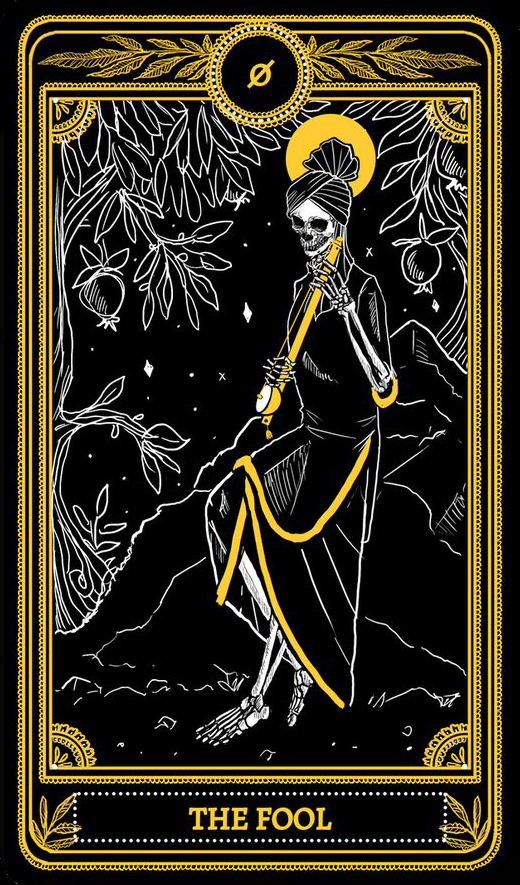
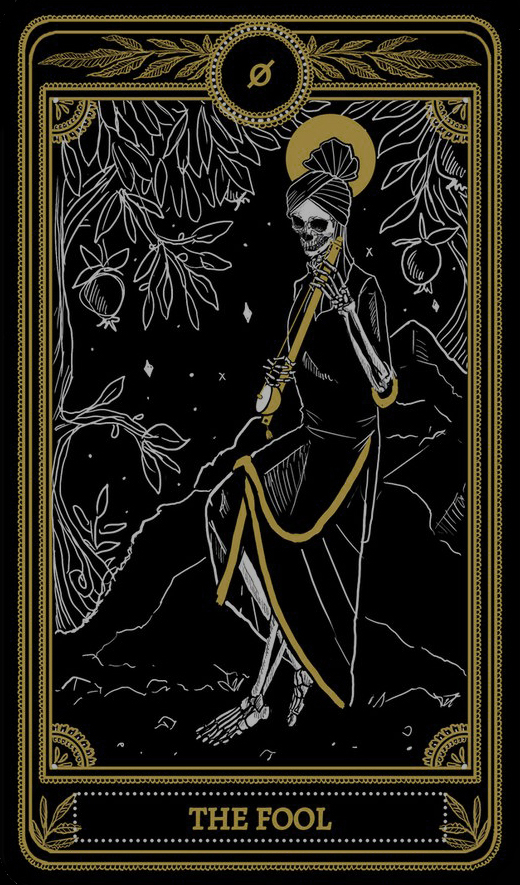
adjusted images to make them less bright

diff --git a/css/style.min.css b/css/style.min.css
@@ -1,2 +1,2 @@
-@-webkit-keyframes move-twink-back{from{background-position:0 0}to{background-position:-10000px 5000px}}@keyframes move-twink-back{from{background-position:0 0}to{background-position:-10000px 5000px}}@-webkit-keyframes fade{0%{opacity:1}100%{opacity:0}}@keyframes fade{0%{opacity:1}100%{opacity:0}}.stars,.twinkling{position:absolute;top:0;left:0;right:0;bottom:0;width:100%;height:100%;display:block}.stars{background:#000 url("../img/stars2.png") repeat top center;z-index:0}.twinkling{background:transparent url("../img/twinkling.png") repeat top center;z-index:1;-webkit-animation:move-twink-back 200s linear infinite;animation:move-twink-back 200s linear infinite}#memory{width:100vw;height:100vh;display:-webkit-box;display:-ms-flexbox;display:flex}.selected{color:#918053;text-shadow:2px 2px 5px #725e85}.cardContainer{margin:auto;-webkit-perspective:1000px;perspective:1000px;display:-webkit-box;display:-ms-flexbox;display:flex;-ms-flex-wrap:wrap;flex-wrap:wrap;width:1410px;height:885px;-webkit-box-pack:justify;-ms-flex-pack:justify;justify-content:space-between;z-index:5}.card{-webkit-transition:1.2s ease-in;transition:1.2s ease-in;-webkit-transform-style:preserve-3d;transform-style:preserve-3d;position:relative;width:calc(20% - 20px);height:50%;-webkit-transform:rotateY(0deg);transform:rotateY(0deg)}img{width:100%;max-height:auto;border-radius:10px;-webkit-box-shadow:0px 0px 10px #725e85;box-shadow:0px 0px 10px #725e85}.front,.back{-webkit-backface-visibility:hidden;backface-visibility:hidden;position:absolute}.front{z-index:2;-webkit-transform:rotateY(180deg);transform:rotateY(180deg)}.back{-webkit-transform:rotateY(0deg);transform:rotateY(0deg)}.flip{-webkit-transform:rotateY(180deg);transform:rotateY(180deg)}#cardFace{z-index:4;width:10vw;height:10vh;top:90%;-webkit-transform:translateY(-50%);transform:translateY(-50%);position:absolute;text-align:center;padding:1em}#score{z-index:4;width:10vw;height:10vh;position:absolute;text-align:center;padding:1em}.playGuide{position:absolute;width:100%;top:50%;z-index:6;-webkit-transform:translateY(-50%);transform:translateY(-50%)}.playGuide p{background-color:rgba(0,0,0,0.383);border-radius:10px;-webkit-box-shadow:0px 0px 10px #725e85;box-shadow:0px 0px 10px #725e85;padding:2em;line-height:2em;font-size:3rem;text-align:center}.fade{-webkit-animation:fade 1.5s linear forwards;animation:fade 1.5s linear forwards}*{margin:0}html{font-family:"Great Vibes", cursive;color:#b8b8b8}
+@-webkit-keyframes move-twink-back{from{background-position:0 0}to{background-position:-10000px 5000px}}@keyframes move-twink-back{from{background-position:0 0}to{background-position:-10000px 5000px}}@-webkit-keyframes fade{0%{opacity:1}100%{opacity:0}}@keyframes fade{0%{opacity:1}100%{opacity:0}}.stars,.twinkling{position:absolute;top:0;left:0;right:0;bottom:0;width:100%;height:100%;display:block}.stars{background:#000 url("../img/stars2.png") repeat top center;z-index:0}.twinkling{background:transparent url("../img/twinkling.png") repeat top center;z-index:1;-webkit-animation:move-twink-back 200s linear infinite;animation:move-twink-back 200s linear infinite}#memory{width:100vw;height:100vh;display:-webkit-box;display:-ms-flexbox;display:flex}.selected{color:#918053;text-shadow:2px 2px 5px #725e85}.cardContainer{margin:auto;-webkit-perspective:1000px;perspective:1000px;display:-webkit-box;display:-ms-flexbox;display:flex;-ms-flex-wrap:wrap;flex-wrap:wrap;width:1300px;height:885px;-webkit-box-pack:justify;-ms-flex-pack:justify;justify-content:space-between;z-index:5}.card{-webkit-transition:1.2s ease-in;transition:1.2s ease-in;-webkit-transform-style:preserve-3d;transform-style:preserve-3d;position:relative;width:calc(20% - 20px);height:50%;-webkit-transform:rotateY(0deg);transform:rotateY(0deg)}.card:hover{cursor:pointer}img{width:100%;max-height:auto;border-radius:10px;-webkit-box-shadow:0px 0px 10px #725e85;box-shadow:0px 0px 10px #725e85}.front,.back{-webkit-backface-visibility:hidden;backface-visibility:hidden;position:absolute}.front{z-index:2;-webkit-transform:rotateY(180deg);transform:rotateY(180deg)}.back{-webkit-transform:rotateY(0deg);transform:rotateY(0deg)}.flip{-webkit-transform:rotateY(180deg);transform:rotateY(180deg)}#cardFace{z-index:4;width:10vw;height:10vh;top:90%;-webkit-transform:translateY(-50%);transform:translateY(-50%);position:absolute;text-align:center;padding:1em}#cardFace:hover{cursor:pointer}#score{z-index:4;width:10vw;height:10vh;position:absolute;text-align:center;padding:1em}#result:hover{cursor:pointer}.playGuide{position:absolute;width:100%;top:50%;z-index:6;-webkit-transform:translateY(-50%);transform:translateY(-50%)}.playGuide p{background-color:rgba(0,0,0,0.383);border-radius:10px;-webkit-box-shadow:0px 0px 10px #725e85;box-shadow:0px 0px 10px #725e85;padding:2em;line-height:2em;font-size:3rem;text-align:center}.playGuide :hover{cursor:pointer}.fade{-webkit-animation:fade 1.5s linear forwards;animation:fade 1.5s linear forwards}*{margin:0}html{font-family:"Great Vibes", cursive;color:#b8b8b8}
 /*# sourceMappingURL=style.min.css.map */

diff --git a/js/main.js b/js/main.js
@@ -5,8 +5,7 @@ const music = document.getElementById("dearlyBeloved");
 const p1 = document.getElementById("p1");
 const p2 = document.getElementById("p2");
 const playGuide = document.querySelector(".playGuide");
-const tarrotStyle = document.getElementById("tarrot");
-const dreamStyle = document.getElementById("dream");
+const cardFace = document.getElementById("cardFace");
 const result = document.getElementById("result");
 
 let p1Score = document.getElementById("p1score");
@@ -16,7 +15,7 @@ let score2 = 0;
 let pairsFound = 0;
 
 let player1 = true;
-let dream = true;
+let dream = false;
 let newTurn = false;
 let wait = false;
 let firstCard, secondCard;
@@ -86,16 +85,12 @@ function compare() {
       p2Score.innerHTML = score2;
     }
     if (pairsFound === 5) {
-      setTimeout(reset, 3000);
       if (score1 > score2) {
-        result.innerHTML = "Player 1 Won";
-        console.log("lol");
+        result.innerHTML = "Player 1 Won <br/> Play Again?";
       } else {
-        console.log("rofl");
-        result.innerHTML = "Player 2 Won";
+        result.innerHTML = "Player 2 Won <br/> Play Again?";
       }
     }
-
     firstCard.removeEventListener("click", flip);
     secondCard.removeEventListener("click", flip);
     clearBoard();
@@ -122,7 +117,10 @@ function clearBoard() {
   secondCard = null;
 }
 
+result.addEventListener("click", reset);
+
 function reset() {
+  clearBoard();
   score1 = 0;
   score2 = 0;
   pairsFound = 0;
@@ -136,10 +134,39 @@ function reset() {
   setTimeout(addFlip, dealCards, 1000);
 }
 
-tarrotStyle.addEventListener("click", style);
-dreamStyle.addEventListener("click", style);
+cardFace.addEventListener("click", toggleStyle);
+
+function toggleStyle() {
+  reset();
+  setTimeout(style, 1500);
+  if (dream) {
+    dream = false;
+    cardFace.innerHTML = "<h1>Tarrot</h1>";
+  } else {
+    dream = true;
+    setTimeout(style, 1500);
+    cardFace.innerHTML = "<h1>Dream</h1>";
+  }
+}
 
 function style() {
-  if (dream) {
+  const card1 = document.querySelectorAll(".d1");
+  const card2 = document.querySelectorAll(".d2");
+  const card3 = document.querySelectorAll(".d3");
+  const card4 = document.querySelectorAll(".d4");
+  const card5 = document.querySelectorAll(".d5");
+
+  if (!dream) {
+    card1.forEach(thisCard => (thisCard.src = "../img/n1.jpg"));
+    card2.forEach(thisCard => (thisCard.src = "../img/n2.jpg"));
+    card3.forEach(thisCard => (thisCard.src = "../img/n3.jpg"));
+    card4.forEach(thisCard => (thisCard.src = "../img/n4.jpg"));
+    card5.forEach(thisCard => (thisCard.src = "../img/n5.jpg"));
+  } else {
+    card1.forEach(thisCard => (thisCard.src = "../img/1.jpg"));
+    card2.forEach(thisCard => (thisCard.src = "../img/2.jpg"));
+    card3.forEach(thisCard => (thisCard.src = "../img/3.jpg"));
+    card4.forEach(thisCard => (thisCard.src = "../img/4.jpg"));
+    card5.forEach(thisCard => (thisCard.src = "../img/5.jpg"));
   }
 }

diff --git a/index.html b/index.html
@@ -22,12 +22,11 @@
     <div id="score">
       <h1 id="p1" class="selected">Player 1: <span id="p1score">0</span></h1>
       <h1 id="p2">Player 2: <span id="p2score">0</span></h1>
+      <br />
       <h1 id="result"></h1>
     </div>
-    <div id="cardFace">
-      <div id="dream"><h1>Dream</h1></div>
-      <br />
-      <div id="tarrot"><h1>Tarrot</h1></div>
+    <div id="cardFace" class="selected">
+      <h1>Tarrot</h1>
     </div>
     <div class="playGuide">
       <p>
@@ -42,43 +41,43 @@
     <div id="memory">
       <div class="cardContainer">
         <div class="card" data-framework="img1">
-          <img src="./img/1.jpg" class="front " />
+          <img src="./img/1.jpg" class="front d1 " />
           <img src="./img/back.jpg" class="back" />
         </div>
         <div class="card img2" data-framework="img2">
-          <img src="./img/2.jpg" class=" front " />
+          <img src="./img/2.jpg" class=" front d2" />
           <img src="./img/back.jpg" class="back" />
         </div>
         <div class="card img3" data-framework="img3">
-          <img src="./img/3.jpg" class=" front " />
+          <img src="./img/3.jpg" class=" front d3" />
           <img src="./img/back.jpg" class="back" />
         </div>
         <div class="card img4" data-framework="img4">
-          <img src="./img/4.jpg" class=" front " />
+          <img src="./img/4.jpg" class=" front d4" />
           <img src="./img/back.jpg" class="back" />
         </div>
         <div class="card img5" data-framework="img5">
-          <img src="./img/5.jpg" class=" front " />
+          <img src="./img/5.jpg" class=" front d5" />
           <img src="./img/back.jpg" class="back" />
         </div>
         <div class="card img1" data-framework="img1">
-          <img src="./img/1.jpg" class=" front " />
+          <img src="./img/1.jpg" class=" front d1" />
           <img src="./img/back.jpg" class="back" />
         </div>
         <div class="card img2" data-framework="img2">
-          <img src="./img/2.jpg" class=" front " />
+          <img src="./img/2.jpg" class=" front d2" />
           <img src="./img/back.jpg" class="back" />
         </div>
         <div class="card img3" data-framework="img3">
-          <img src="./img/3.jpg" class=" front " />
+          <img src="./img/3.jpg" class=" front d3" />
           <img src="./img/back.jpg" class="back" />
         </div>
         <div class="card img4" data-framework="img4">
-          <img src="./img/4.jpg" class=" front " />
+          <img src="./img/4.jpg" class=" front d4" />
           <img src="./img/back.jpg" class="back" />
         </div>
         <div class="card img5" data-framework="img5">
-          <img src="./img/5.jpg" class=" front " />
+          <img src="./img/5.jpg" class=" front d5" />
           <img src="./img/back.jpg" class="back" />
         </div>
       </div>

diff --git a/css/style.css b/css/style.css
@@ -80,7 +80,7 @@
   display: flex;
   -ms-flex-wrap: wrap;
       flex-wrap: wrap;
-  width: 1410px;
+  width: 1300px;
   height: 885px;
   -webkit-box-pack: justify;
       -ms-flex-pack: justify;
@@ -98,6 +98,10 @@
   height: 50%;
   -webkit-transform: rotateY(0deg);
           transform: rotateY(0deg);
+}
+
+.card:hover {
+  cursor: pointer;
 }
 
 img {
@@ -143,6 +147,10 @@ img {
   padding: 1em;
 }
 
+#cardFace:hover {
+  cursor: pointer;
+}
+
 #score {
   z-index: 4;
   width: 10vw;
@@ -150,6 +158,10 @@ img {
   position: absolute;
   text-align: center;
   padding: 1em;
+}
+
+#result:hover {
+  cursor: pointer;
 }
 
 .playGuide {
@@ -170,6 +182,10 @@ img {
   line-height: 2em;
   font-size: 3rem;
   text-align: center;
+}
+
+.playGuide :hover {
+  cursor: pointer;
 }
 
 .fade {

diff --git a/scss/_cards.scss b/scss/_cards.scss
@@ -13,7 +13,7 @@
   perspective: 1000px;
   display: flex;
   flex-wrap: wrap;
-  width: 1410px;
+  width: 1300px;
   height: 885px;
   justify-content: space-between;
   z-index: 5;
@@ -26,6 +26,9 @@
   width: calc(20% - 20px);
   height: 50%;
   transform: rotateY(0deg);
+}
+.card:hover {
+  cursor: pointer;
 }
 
 img {

diff --git a/scss/_guide.scss b/scss/_guide.scss
@@ -7,6 +7,10 @@
   padding: 1em;
 }
 
+#result:hover {
+  cursor: pointer;
+}
+
 .playGuide {
   position: absolute;
   width: 100%;
@@ -21,6 +25,9 @@
     line-height: 2em;
     font-size: 3rem;
     text-align: center;
+  }
+  :hover {
+    cursor: pointer;
   }
 }
 

diff --git a/scss/_cardFace.scss b/scss/_cardFace.scss
@@ -8,3 +8,6 @@
   text-align: center;
   padding: 1em;
 }
+#cardFace:hover {
+  cursor: pointer;
+}

diff --git a/readme.md b/readme.md
@@ -15,7 +15,7 @@ by Cheung Kin Wong
 
 ##Nice-to-have features
 [ ]Make it playable by keyboard
-[ ]Let a user define custom image urls
+[x]Let a user define custom image urls
 [x]Make it pleasing to look at
 [x]Multiplayer (local)
 
